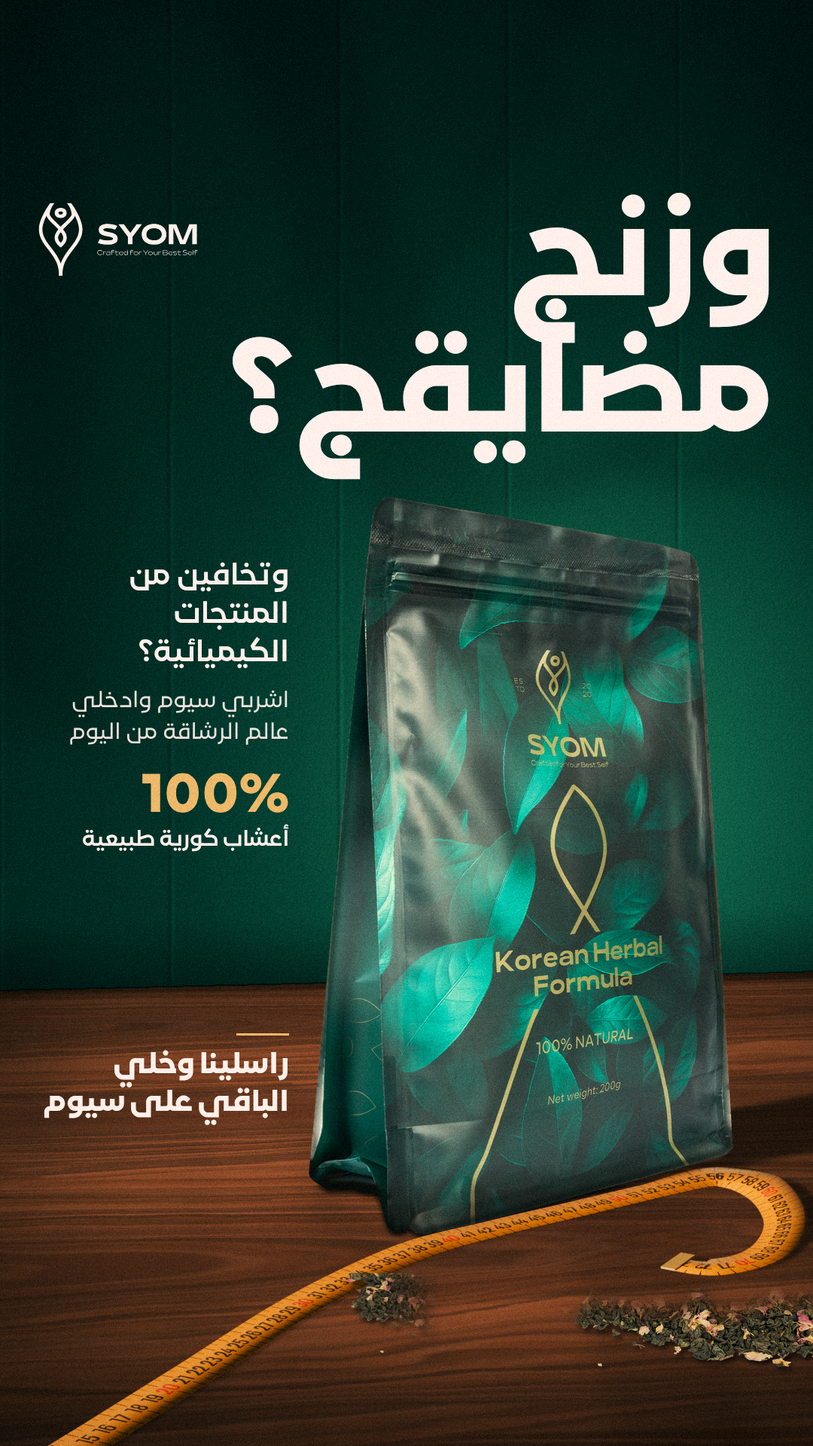
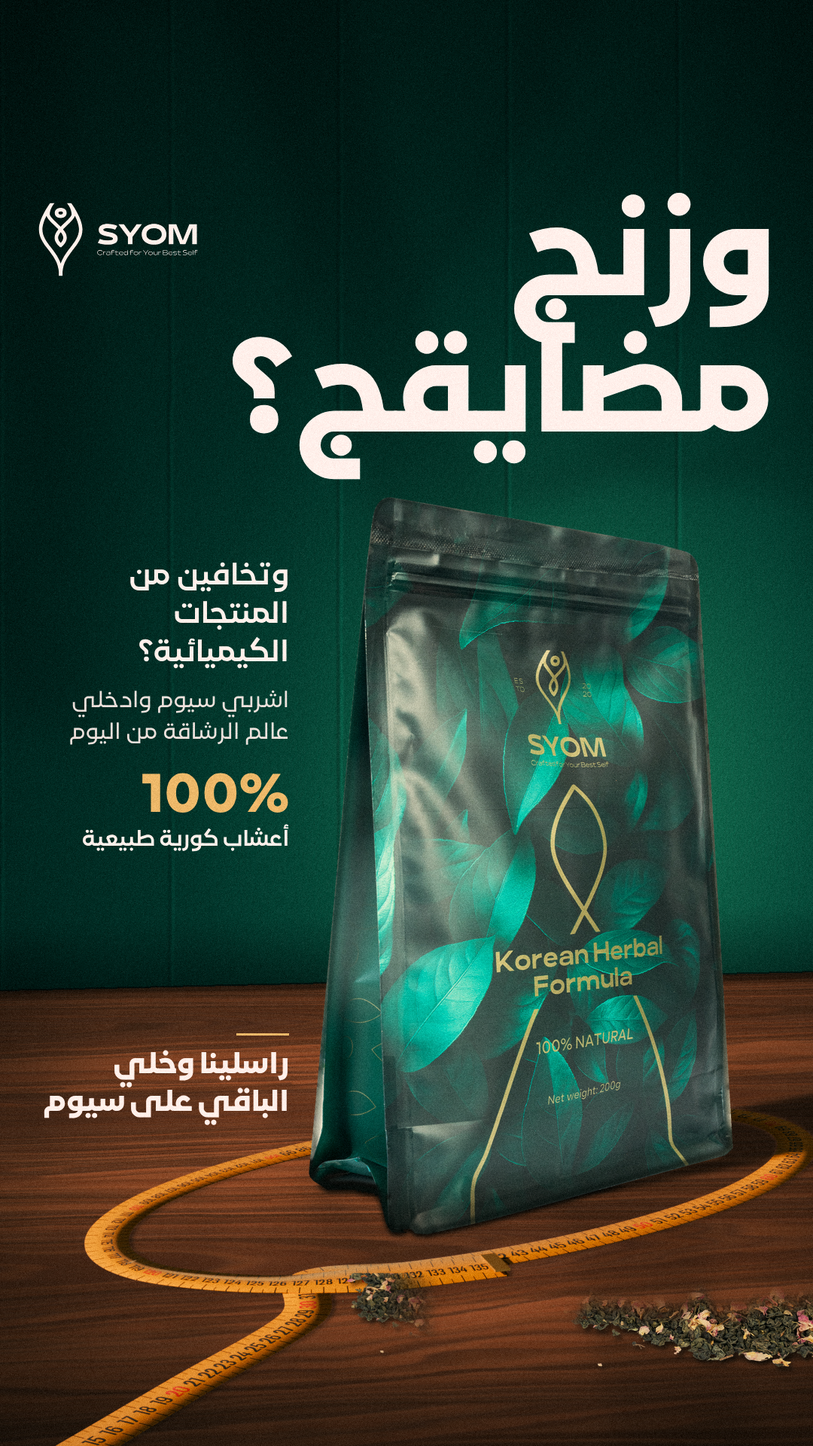
Syom Tea: ad D, the tape lies in a loop round the pouch's foot, as if it slipped off

Changed region(s): [[0.0611, 0.75, 1.0, 1.0]]

diff --git a/marketing/syom-tea/adD/tape.py b/marketing/syom-tea/adD/tape.py
@@ -1,5 +1,5 @@
 # The tailor's tape for ad D, rendered alone so it can be laid into the photo composite:
-#   blender -b -P tape.py -- <out.png> [samples] [proxy|tapeonly|full]
+#   blender -b -P tape.py -- <out.png> [samples] [proxy|shadow|back|front]
 # The camera is solved so the pouch base centre lands at (700, 1560) and the pouch stands about 900 px tall.
 # A box stands where the pouch photo goes: it hides the tape behind the pouch and throws the pouch's shadow onto a
 # shadow catcher, so the PNG holds the tape plus the shadows of tape and pouch on the table. With "proxy" the box
@@ -11,8 +11,12 @@ argv = sys.argv[sys.argv.index('--') + 1:] if '--' in sys.argv else []
 OUT = os.path.abspath(argv[0] if argv else 'cut/tape.png')
 SAMPLES = int(argv[1]) if len(argv) > 1 else 128
 PROXY = len(argv) > 2 and argv[2] == 'proxy'
-NOFLOOR = len(argv) > 2 and argv[2] in ('tapeonly', 'full')   # the tape without the shadow catcher, to split tape from shadows
-FULL = len(argv) > 2 and argv[2] == 'full'   # the whole tape (the stand-in only casts its shadow), cut against the real pouch photo later
+MODE = argv[2] if len(argv) > 2 else 'shadow'
+# shadow: tape and shadows on the table (the stand-in hides what is behind it)
+# back / front: only the half of the loop behind / in front of the pouch, no table; the back half goes under the pouch
+#               photo, so the photo's own outline hides it, and the front half goes over it
+NOFLOOR = MODE in ('back', 'front')
+FULL = MODE in ('back', 'front')
 HERE = os.path.dirname(os.path.abspath(__file__))
 
 bpy.ops.wm.read_factory_settings(use_empty=True)
@@ -101,16 +105,24 @@ def on_table(u, v):
     return o + d * t
 
 
-# the path is laid out in frame pixels, all of it on the table in front of the pouch (its front base edge runs from
-# (529, 1637) to (958, 1536)), so nothing passes behind it: in from the bottom left, along the front of the pouch,
-# and a loose curl at the right with the brass end lying back toward the left. (u, v, roll)
-LAYOUT = [(-160, 2080, 0), (60, 1950, 0), (250, 1830, 0), (410, 1728, 0), (548, 1664, 0.06), (660, 1632, 0),
-          (770, 1606, 0), (870, 1582, 0), (950, 1566, 0.16), (1012, 1582, 0.40), (1042, 1624, 0.30),
-          (1018, 1666, 0.06), (952, 1684, 0), (892, 1676, 0)]
+# the tape slipped off the pouch and dropped round its foot: in from the bottom left (laid out in frame pixels), then
+# one loose loop round the base in the pouch's own frame, wider than the 20 x 7 cm base so its far left and right
+# lie on the table beside the pouch, and on round to the front where the end lies over the first pass.
+LEAD = [(-160, 2080), (60, 1955), (250, 1842), (400, 1752)]
 ctrl = []   # world (x, y, z, roll)
-for u, v, roll in LAYOUT:
+for u, v in LEAD:
     q = on_table(u, v)
-    ctrl.append((q.x, q.y, 0.0003 + 0.005 * roll, roll))
+    ctrl.append((q.x, q.y, 0.0003, 0))
+A_, B_, CX_ = 0.182, 0.098, -0.030       # centred a little left so the right side stays in frame
+for k in range(0, 24):
+    deg = 222 + k * 17.0                             # 222 .. 613 degrees: front left, front, right, back, left, and across the start
+    th = math.radians(deg)
+    r = 1 + 0.09 * (deg - 222) / 391 + 0.035 * math.sin(2.3 * th + 0.8)
+    x, y = CX_ + A_ * r * math.cos(th), B_ * r * math.sin(th)
+    z = 0.0003 + (0.0007 if deg > 560 else 0)        # the second pass lies on top of the first
+    roll = 0.22 * math.sin(math.radians(deg - 222) * 2.2) if deg > 590 else 0
+    q = M @ Vector((x, y, 0))
+    ctrl.append((q.x, q.y, z + 0.004 * abs(roll), roll))
 
 
 def catmull(pts, step=0.0025):
@@ -130,6 +142,9 @@ def catmull(pts, step=0.0025):
 
 print('CTRL', [tuple(round(c) for c in px(Vector(p[:3]))) for p in ctrl])
 path = catmull(ctrl)
+_Mi = M.inverted()
+_cross = [px(path[i][0]) for i in range(1, len(path)) if ((_Mi @ path[i][0]).y > 0) != ((_Mi @ path[i - 1][0]).y > 0)]
+print('SPLIT', [tuple(round(c) for c in v) for v in _cross])
 bm = bmesh.new(); uvl = bm.loops.layers.uv.new('UVMap')
 rows, L, prev = [], 0.0, None
 for i, (q, roll) in enumerate(path):
@@ -140,7 +155,13 @@ for i, (q, roll) in enumerate(path):
         L += (q - prev).length
     prev = q
     rows.append((bm.verts.new(q - side * TW / 2), bm.verts.new(q + side * TW / 2), L))
-for a, b in zip(rows, rows[1:]):
+Minv = M.inverted()
+behind = [(Minv @ q).y > 0.0 for q, _ in path]       # the half of the loop on the far side of the pouch
+for i, (a, b) in enumerate(zip(rows, rows[1:])):
+    back = behind[i] or behind[i + 1]
+    front = not (behind[i] and behind[i + 1])
+    if (MODE == 'back' and not back) or (MODE == 'front' and not front):
+        continue
     f = bm.faces.new((a[0], b[0], b[1], a[1]))
     for loop, uv in zip(f.loops, ((a[2], 0), (b[2], 0), (b[2], 1), (a[2], 1))):
         loop[uvl].uv = (uv[0] / 1.5 + 0.03, uv[1])
@@ -165,8 +186,11 @@ cap.scale = (0.007, TW + 0.0008, TT + 0.0005)
 cap.rotation_euler = (0, 0, math.atan2(end_t.y, end_t.x))
 mb = bpy.data.materials.new('Brass'); mb.use_nodes = True
 pb = mb.node_tree.nodes['Principled BSDF']
-pb.inputs['Base Color'].default_value = (0.86, 0.62, 0.30, 1); pb.inputs['Metallic'].default_value = 0.55; pb.inputs['Roughness'].default_value = 0.42
+pb.inputs['Base Color'].default_value = (0.66, 0.46, 0.20, 1); pb.inputs['Metallic'].default_value = 0.75; pb.inputs['Roughness'].default_value = 0.34
 cap.data.materials.append(mb)
+cap.visible_shadow = False        # a sheet this thin barely shades the tape under it
+if MODE == 'back':
+    cap.hide_render = True
 
 # ---------- light: low warm sun from the left (late afternoon), soft fill from the room ----------
 direction = Vector((0.82, 0.38, -0.43)).normalized()

diff --git a/marketing/syom-tea/adD/compose.py b/marketing/syom-tea/adD/compose.py
@@ -29,7 +29,7 @@ def darken(dst, amount):
 
 
 # Blender writes its own notes into the PNGs it renders: keep only the pixels
-for f in ('cut/tape.png', 'cut/tape-shadow.png', 'cut/tape-full.png'):
+for f in ('cut/tape-shadow.png', 'cut/tape-back.png', 'cut/tape-front.png'):
     im = Image.open(f).convert('RGBA')
     Image.frombytes('RGBA', im.size, im.tobytes()).save(f, optimize=True)
 
@@ -87,8 +87,8 @@ ao = np.exp(-(((xx - 690) / 380) ** 2 + ((yy - 1590) / 95) ** 2))
 darken(img, cv2.GaussianBlur(ao, (0, 0), 30) * 0.42)
 
 # ---------- cast shadows of pouch and tape, from the render (tape+shadow minus tape) ----------
-ts = rgba('cut/tape-shadow.png'); to = rgba('cut/tape.png')
-sh = np.clip(ts[..., 3] - to[..., 3], 0, 1)
+ts = rgba('cut/tape-shadow.png'); tb = rgba('cut/tape-back.png'); tfr = rgba('cut/tape-front.png')
+sh = np.clip(ts[..., 3] - np.maximum(tb[..., 3], tfr[..., 3]), 0, 1)
 sh = cv2.GaussianBlur(sh, (0, 0), 2.5)
 darken(img, sh * 0.62 * (1 - wall_mask))
 
@@ -149,20 +149,16 @@ over_c = np.zeros((H, W), np.float32)
 ys, xs = slice(py + 4, py + 4 + ph), slice(px, px + pw)
 over_c[ys, xs] = pa * base_rows
 contact = cv2.GaussianBlur(over_c, (0, 0), 3)
+# the back half of the fallen tape goes under the pouch, so the photo's own outline hides it
+over(img, np.clip(tb[..., :3] * np.array([1.08, 1.02, 0.9]), 0, 1), tb[..., 3])
 darken(img, contact * 0.85)
 over(img, prgb, pa, px, py)
 pouch_canvas = np.zeros((H, W, 3), np.float32)
 over(pouch_canvas, np.ones((ph, pw, 3), np.float32), pa, px, py)
 pouch_canvas = pouch_canvas[..., 0]
 
-# ---------- tape ----------
-# the stand-in box doesn't follow the photo's outline exactly, so take what it hid and give back the parts that
-# fall outside the real pouch
-tf = rgba('cut/tape-full.png')
-behind = np.clip(tf[..., 3] - to[..., 3], 0, 1) * (1 - pouch_canvas)
-ta = np.clip(to[..., 3] + behind, 0, 1)
-trgb = np.where(to[..., 3:4] > 0.02, to[..., :3], tf[..., :3])
-over(img, np.clip(trgb * np.array([1.08, 1.02, 0.9]), 0, 1), ta)
+# ---------- tape: the front half of the loop, over the pouch's foot ----------
+over(img, np.clip(tfr[..., :3] * np.array([1.08, 1.02, 0.9]), 0, 1), tfr[..., 3])
 
 # ---------- loose tea and rose petals spilled over the base and the tape ----------
 hb = Image.open('cut/herbs.png')

diff --git a/marketing/syom-tea/adB/prep.py b/marketing/syom-tea/adB/prep.py
@@ -33,6 +33,7 @@ w, h = PX * CM, int(PX * WD)
 tape = Image.new('RGB', (w, h), (200, 132, 6))
 d = ImageDraw.Draw(tape)
 font = ImageFont.truetype(FILES + 'brand/3- Fonts/LamaSans-BoldCondensed.ttf', int(h * 0.42))
+font3 = ImageFont.truetype(FILES + 'brand/3- Fonts/LamaSans-BoldCondensed.ttf', int(h * 0.31))
 for mm in range(0, CM * 10 + 1, 5):
     x = mm * PX / 10
     long = mm % 10 == 0
@@ -43,8 +44,9 @@ for mm in range(0, CM * 10 + 1, 5):
     if long and 0 < mm < CM * 10:
         n = mm // 10
         col = (190, 30, 28) if n % 10 == 0 else (24, 20, 16)
-        tb = d.textbbox((0, 0), str(n), font=font)
-        d.text((x - (tb[2] - tb[0]) / 2 - PX * 0.5 + PX * 0.5, h / 2 - (tb[3] - tb[1]) / 2 - tb[1]), str(n), font=font, fill=col)
+        fnt = font if n < 100 else font3                 # three-digit numbers set smaller so they keep their own centimetre
+        tb = d.textbbox((0, 0), str(n), font=fnt)
+        d.text((x - (tb[2] - tb[0]) / 2, h / 2 - (tb[3] - tb[1]) / 2 - tb[1]), str(n), font=fnt, fill=col)
 t = np.asarray(tape).astype(np.float32)
 # woven fabric: fine noise and a faint weave so the ink doesn't look printed by a computer
 rng = np.random.default_rng(3)

diff --git a/marketing/syom-tea/README.md b/marketing/syom-tea/README.md
@@ -92,6 +92,9 @@ Call to action options sent to him (all soft, since the ad has its own Send Mess
   alone in Blender with a camera solved to the layout (a stand-in box hides it behind the pouch and throws the pouch's
   cast shadow), a walnut table warped into that camera's perspective, green plaster wall with a warm light behind the
   pouch and the palm shadow out of focus, contact/cast/ambient shadows, rim light, type in Lama Sans, one grade with
-  grain over everything. Build: `cd adD && python3 cut.py`, `blender -b -P tape.py -- cut/tape-shadow.png 96`,
-  `blender -b -P tape.py -- cut/tape.png 96 tapeonly`, `blender -b -P tape.py -- cut/tape-full.png 96 full`, `python3 compose.py`, then from this folder
+  grain over everything. Build: `cd adD && python3 cut.py`, `blender -b -P tape.py -- cut/tape-shadow.png 128 shadow`,
+  `blender -b -P tape.py -- cut/tape-back.png 128 back`, `blender -b -P tape.py -- cut/tape-front.png 128 front`, `python3 compose.py`, then from this folder
   `node render.cjs adD/ad.html && python3 adD/grade.py out/syom-adD-story.png out/syom-adD-story.png`.
+  The tape is one loose loop round the pouch's foot, wider than its base, as if it slipped off. It renders in two
+  halves: the back half goes under the pouch photo (the photo's outline hides it) and the front half over it, split
+  where the loop lies on the table beside the pouch, so it never seems to pass through the pouch.
